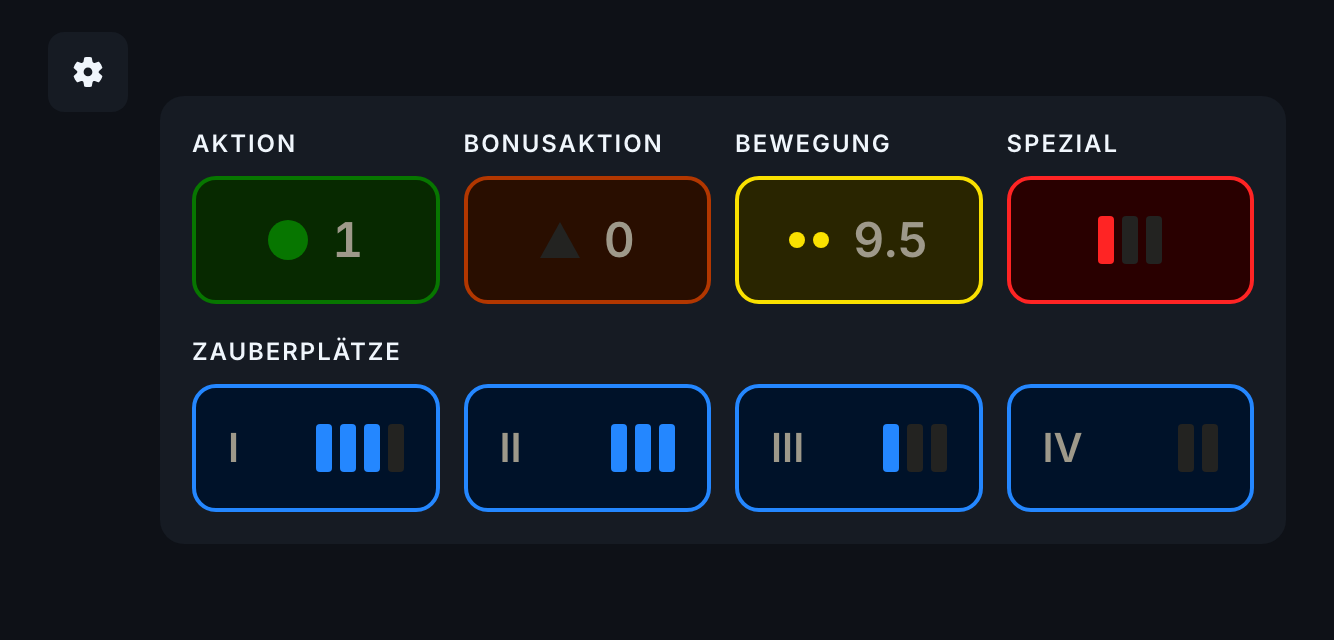
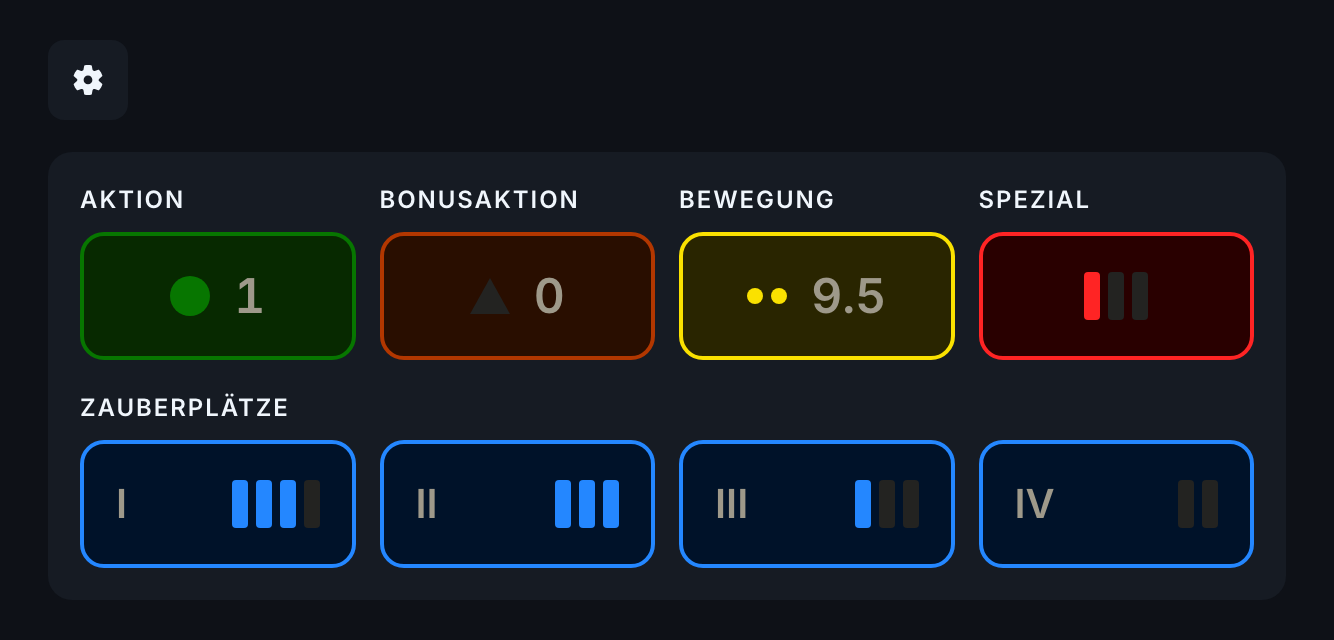
style: restyle player screen v2

diff --git a/frontend/design/mockups/v2/player.html b/frontend/design/mockups/v2/player.html
@@ -31,9 +31,10 @@ body { font-family: var(--font); font-size: 16px; line-height: 24px; background:
   -webkit-font-smoothing: antialiased; user-select: none; }
 svg { width: 100%; height: 100%; fill: var(--text); }
 
-.screen { height: 100%; display: grid; grid-template-columns: var(--control-md) 1fr; gap: var(--space-4);
-  padding: var(--space-4) var(--edge); align-items: center; }
-.rail { align-self: start; }
+.screen { height: 100%; display: flex; flex-direction: column; justify-content: center; gap: var(--space-4);
+  padding: var(--space-4) var(--edge); }
+/* Kopfleiste: transparent, gleiche Breite wie die Karte, Settings-Button links bündig mit der Karte */
+.headbar { height: var(--control-md); display: flex; align-items: center; justify-content: flex-start; }
 .icon-btn { width: var(--control-md); height: var(--control-md); display: grid; place-items: center; border: none;
   border-radius: var(--radius-md); background: var(--secondary); color: var(--text); }
 .icon-btn svg { width: var(--icon); height: var(--icon); }
@@ -73,10 +74,10 @@ svg { width: 100%; height: 100%; fill: var(--text); }
 @media (max-width: 649px) { .rotate { display: grid; } }
 </style></head><body>
 <div class="screen">
-  <div class="rail"><button class="icon-btn"><svg xmlns="http://www.w3.org/2000/svg" width="16" height="16" fill="currentColor" viewBox="0 0 16 16" id="settings">
+  <header class="headbar"><button class="icon-btn"><svg xmlns="http://www.w3.org/2000/svg" width="16" height="16" fill="currentColor" viewBox="0 0 16 16" id="settings">
   <path fill="currentColor" d="M2.26726 6.15309C2.52898 5.34715 2.96011 4.60735 3.52898 3.98039C3.62517 3.87437 3.77609 3.83658 3.91121 3.88469L5.27069 4.36869C5.63926 4.49984 6.04482 4.30865 6.17653 3.94166C6.18948 3.90557 6.19946 3.8685 6.20635 3.83086L6.46535 2.41533C6.4911 2.27459 6.59966 2.16326 6.74019 2.13347C7.15137 2.04633 7.57295 2.00201 8.00006 2.00201C8.42691 2.00201 8.84824 2.04628 9.25918 2.13331C9.39967 2.16307 9.50822 2.27433 9.53403 2.41502L9.79376 3.8308C9.86398 4.21419 10.233 4.46831 10.6181 4.3984C10.656 4.39152 10.6932 4.38159 10.7294 4.36871L12.0889 3.88469C12.224 3.83658 12.3749 3.87437 12.4711 3.98039C13.04 4.60735 13.4711 5.34715 13.7329 6.15309C13.777 6.28905 13.7344 6.43811 13.625 6.53059L12.5231 7.46211C12.2248 7.71436 12.1883 8.15967 12.4416 8.45674C12.4665 8.48595 12.4938 8.51309 12.5231 8.53788L13.625 9.46941C13.7344 9.56189 13.777 9.71095 13.7329 9.84692C13.4711 10.6529 13.04 11.3927 12.4711 12.0196C12.3749 12.1256 12.224 12.1634 12.0889 12.1153L10.7294 11.6313C10.3609 11.5002 9.9553 11.6914 9.82359 12.0583C9.81064 12.0944 9.80066 12.1315 9.79374 12.1693L9.53403 13.585C9.50822 13.7257 9.39967 13.8369 9.25918 13.8667C8.84824 13.9537 8.42691 13.998 8.00006 13.998C7.57295 13.998 7.15137 13.9537 6.74019 13.8665C6.59966 13.8367 6.4911 13.7254 6.46535 13.5847L6.20636 12.1692C6.13614 11.7858 5.76708 11.5317 5.38203 11.6016C5.34416 11.6085 5.30693 11.6184 5.27075 11.6313L3.91121 12.1153C3.77609 12.1634 3.62517 12.1256 3.52898 12.0196C2.96011 11.3927 2.52898 10.6529 2.26726 9.84692C2.22311 9.71095 2.26568 9.56189 2.37509 9.46941L3.47699 8.53789C3.77534 8.28564 3.81183 7.84033 3.5585 7.54326C3.53359 7.51405 3.50633 7.48691 3.477 7.46212L2.37509 6.53059C2.26568 6.43811 2.22311 6.28905 2.26726 6.15309ZM6.24994 7.99994C6.24994 8.96644 7.03344 9.74994 7.99994 9.74994C8.96644 9.74994 9.74994 8.96644 9.74994 7.99994C9.74994 7.03344 8.96644 6.24994 7.99994 6.24994C7.03344 6.24994 6.24994 7.03344 6.24994 7.99994Z"></path>
 </svg>
-</button></div>
+</button></header>
   <div class="card">
     <div class="row">
       <div class="cell"><span class="label">Aktion</span>

diff --git a/frontend/design/mockups/v2/build_player.py b/frontend/design/mockups/v2/build_player.py
@@ -46,9 +46,10 @@ body { font-family: var(--font); font-size: 16px; line-height: 24px; background:
   -webkit-font-smoothing: antialiased; user-select: none; }
 svg { width: 100%; height: 100%; fill: var(--text); }
 
-.screen { height: 100%; display: grid; grid-template-columns: var(--control-md) 1fr; gap: var(--space-4);
-  padding: var(--space-4) var(--edge); align-items: center; }
-.rail { align-self: start; }
+.screen { height: 100%; display: flex; flex-direction: column; justify-content: center; gap: var(--space-4);
+  padding: var(--space-4) var(--edge); }
+/* Kopfleiste: transparent, gleiche Breite wie die Karte, Settings-Button links bündig mit der Karte */
+.headbar { height: var(--control-md); display: flex; align-items: center; justify-content: flex-start; }
 .icon-btn { width: var(--control-md); height: var(--control-md); display: grid; place-items: center; border: none;
   border-radius: var(--radius-md); background: var(--secondary); color: var(--text); }
 .icon-btn svg { width: var(--icon); height: var(--icon); }
@@ -103,7 +104,7 @@ html = f"""<!doctype html><html lang="de"><head><meta charset="utf-8">
 <link href="https://fonts.googleapis.com/css2?family=Inter:wght@400;500;600;700&display=swap" rel="stylesheet">
 <style>{CSS}</style></head><body>
 <div class="screen">
-  <div class="rail"><button class="icon-btn">{icon('settings')}</button></div>
+  <header class="headbar"><button class="icon-btn">{icon('settings')}</button></header>
   <div class="card">
     <div class="row">
       <div class="cell"><span class="label">Aktion</span>
